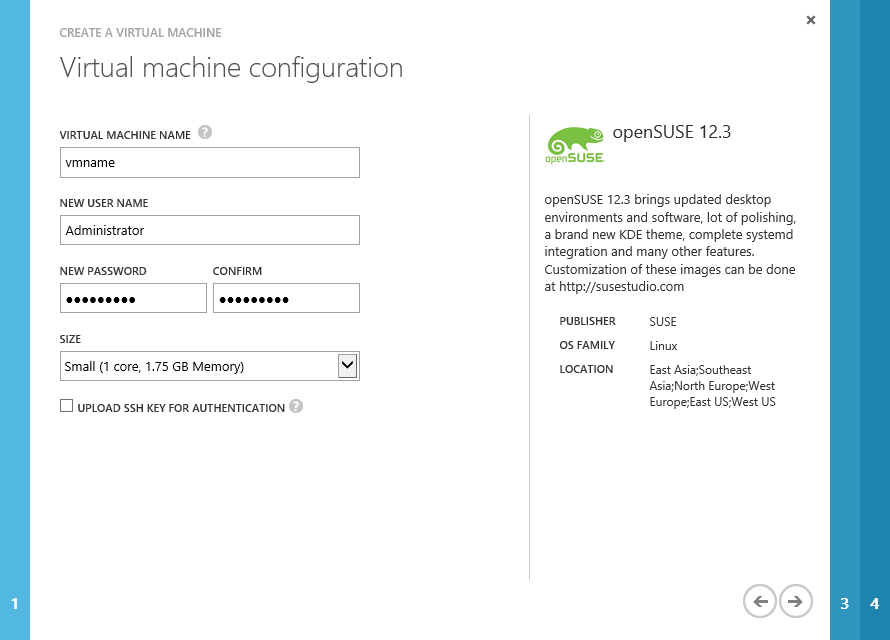
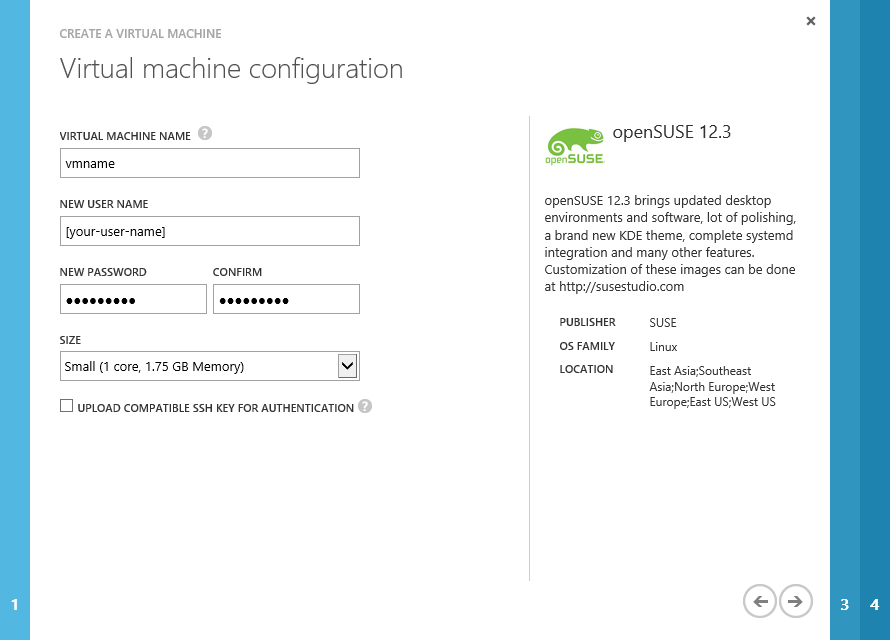
Updated HOL.md and screenshots to set the user name when creating a new VM in the Windows Azure portal

diff --git a/HOL.md b/HOL.md
@@ -59,33 +59,33 @@ In this exercise, you will learn how to provision a Linux Virtual Machine in the
 
 	_Creating a new Virtual Machine_
  
-	1. In the **Virtual Machine operating system selection** page, click **Platform Images** on the left menu and select the **OpenSUSE** OS image from the list. Click the arrow to continue.	
+1. In the **Virtual Machine operating system selection** page, click **Platform Images** on the left menu and select the **OpenSUSE** OS image from the list. Click the arrow to continue.	
 
-		![Selecting OpenSUSE from the image list](Images/creating-a-vm-suse.png?raw=true)	
+	![Selecting OpenSUSE from the image list](Images/creating-a-vm-suse.png?raw=true)	
 	 
-		_Selecting OpenSUSE from the image list_
+	_Selecting OpenSUSE from the image list_
 
-	1. In the **Virtual Machine Configuration** page, enter the **Virtual Machine Name**, set the **New User Name** to **Administrator**, the **Password** and the **Size** for the Virtual Machine. Click the **right arrow** to continue.
+1. In the **Virtual machine Configuration** page, enter a **Virtual Machine Name**, provide a user name for the **New User Name** field and a password for the **New Password** and **Confirm Password** fields. Lastly, set the Virtual Machine **Size** to _Small_ and click **Next** to continue.
 
-		![Configuring a Custom VM](Images/creating-a-vm-configuration.png?raw=true)	
+	![Configuring a Custom VM](Images/creating-a-vm-configuration.png?raw=true)	
 	 
-		_Creating a Virtual Machine - Configuration_
+	_Creating a Virtual Machine - Configuration_
  
-		>**Note:** It is suggested to use secure passwords for admin users, as Windows Azure virtual machines could be accessible from the Internet knowing just their DNS.
+	>**Note:** It is suggested to use secure passwords for admin users, as Windows Azure virtual machines could be accessible from the Internet knowing just their DNS.
 
-		>You can also read this document on the Microsoft Security website that will help you select a secure password:  [http://www.microsoft.com/security/online-privacy/passwords-create.aspx](http://www.microsoft.com/security/online-privacy/passwords-create.aspx)
+	>You can also read this document on the Microsoft Security website that will help you select a secure password:  [http://www.microsoft.com/security/online-privacy/passwords-create.aspx](http://www.microsoft.com/security/online-privacy/passwords-create.aspx)
  
-	1. In the **Virtual Machine Mode** page, select **Standalone Virtual Machine**, enter the **DNS Name**, you can automatically generate a new Storage Account or select one you already own. Then, select the **Region/Affinity group/Virtual Network** value  and select the **subscription**. Click the **right arrow** to continue. 
+1. In the **Virtual Machine Mode** page, select **Standalone Virtual Machine**, enter the **DNS Name**, you can automatically generate a new Storage Account or select one you already own. Then, select the **Region/Affinity group/Virtual Network** value  and select the **subscription**. Click the **right arrow** to continue. 
 
-		![Configuring a Custom VM, VM Mode](Images/creating-a-vm-vm-mode.png?raw=true)
+	![Configuring a Custom VM, VM Mode](Images/creating-a-vm-vm-mode.png?raw=true)
 	 
-		_Creating a Virtual Machine - Virtual Machine Mode_
+	_Creating a Virtual Machine - Virtual Machine Mode_
  
-	1. In the **Virtual Machine Options** page, click the button to create a new Virtual Machine.
+1. In the **Virtual Machine Options** page, click the button to create a new Virtual Machine.
 
-		![Creating a VM - VM Options](Images/creating-a-vm--vm-options.png?raw=true "Creating a VM - VM Options")
+	![Creating a VM - VM Options](Images/creating-a-vm--vm-options.png?raw=true "Creating a VM - VM Options")
 
-		_Creating a Virtual Machine - Virtual Machine Options_
+	_Creating a Virtual Machine - Virtual Machine Options_
  
 1. In the **Virtual Machines** section, you will see the Virtual Machine you created with a _provisioning_ status. Wait until it changes to _Running_ in order to continue with the following step.
 
